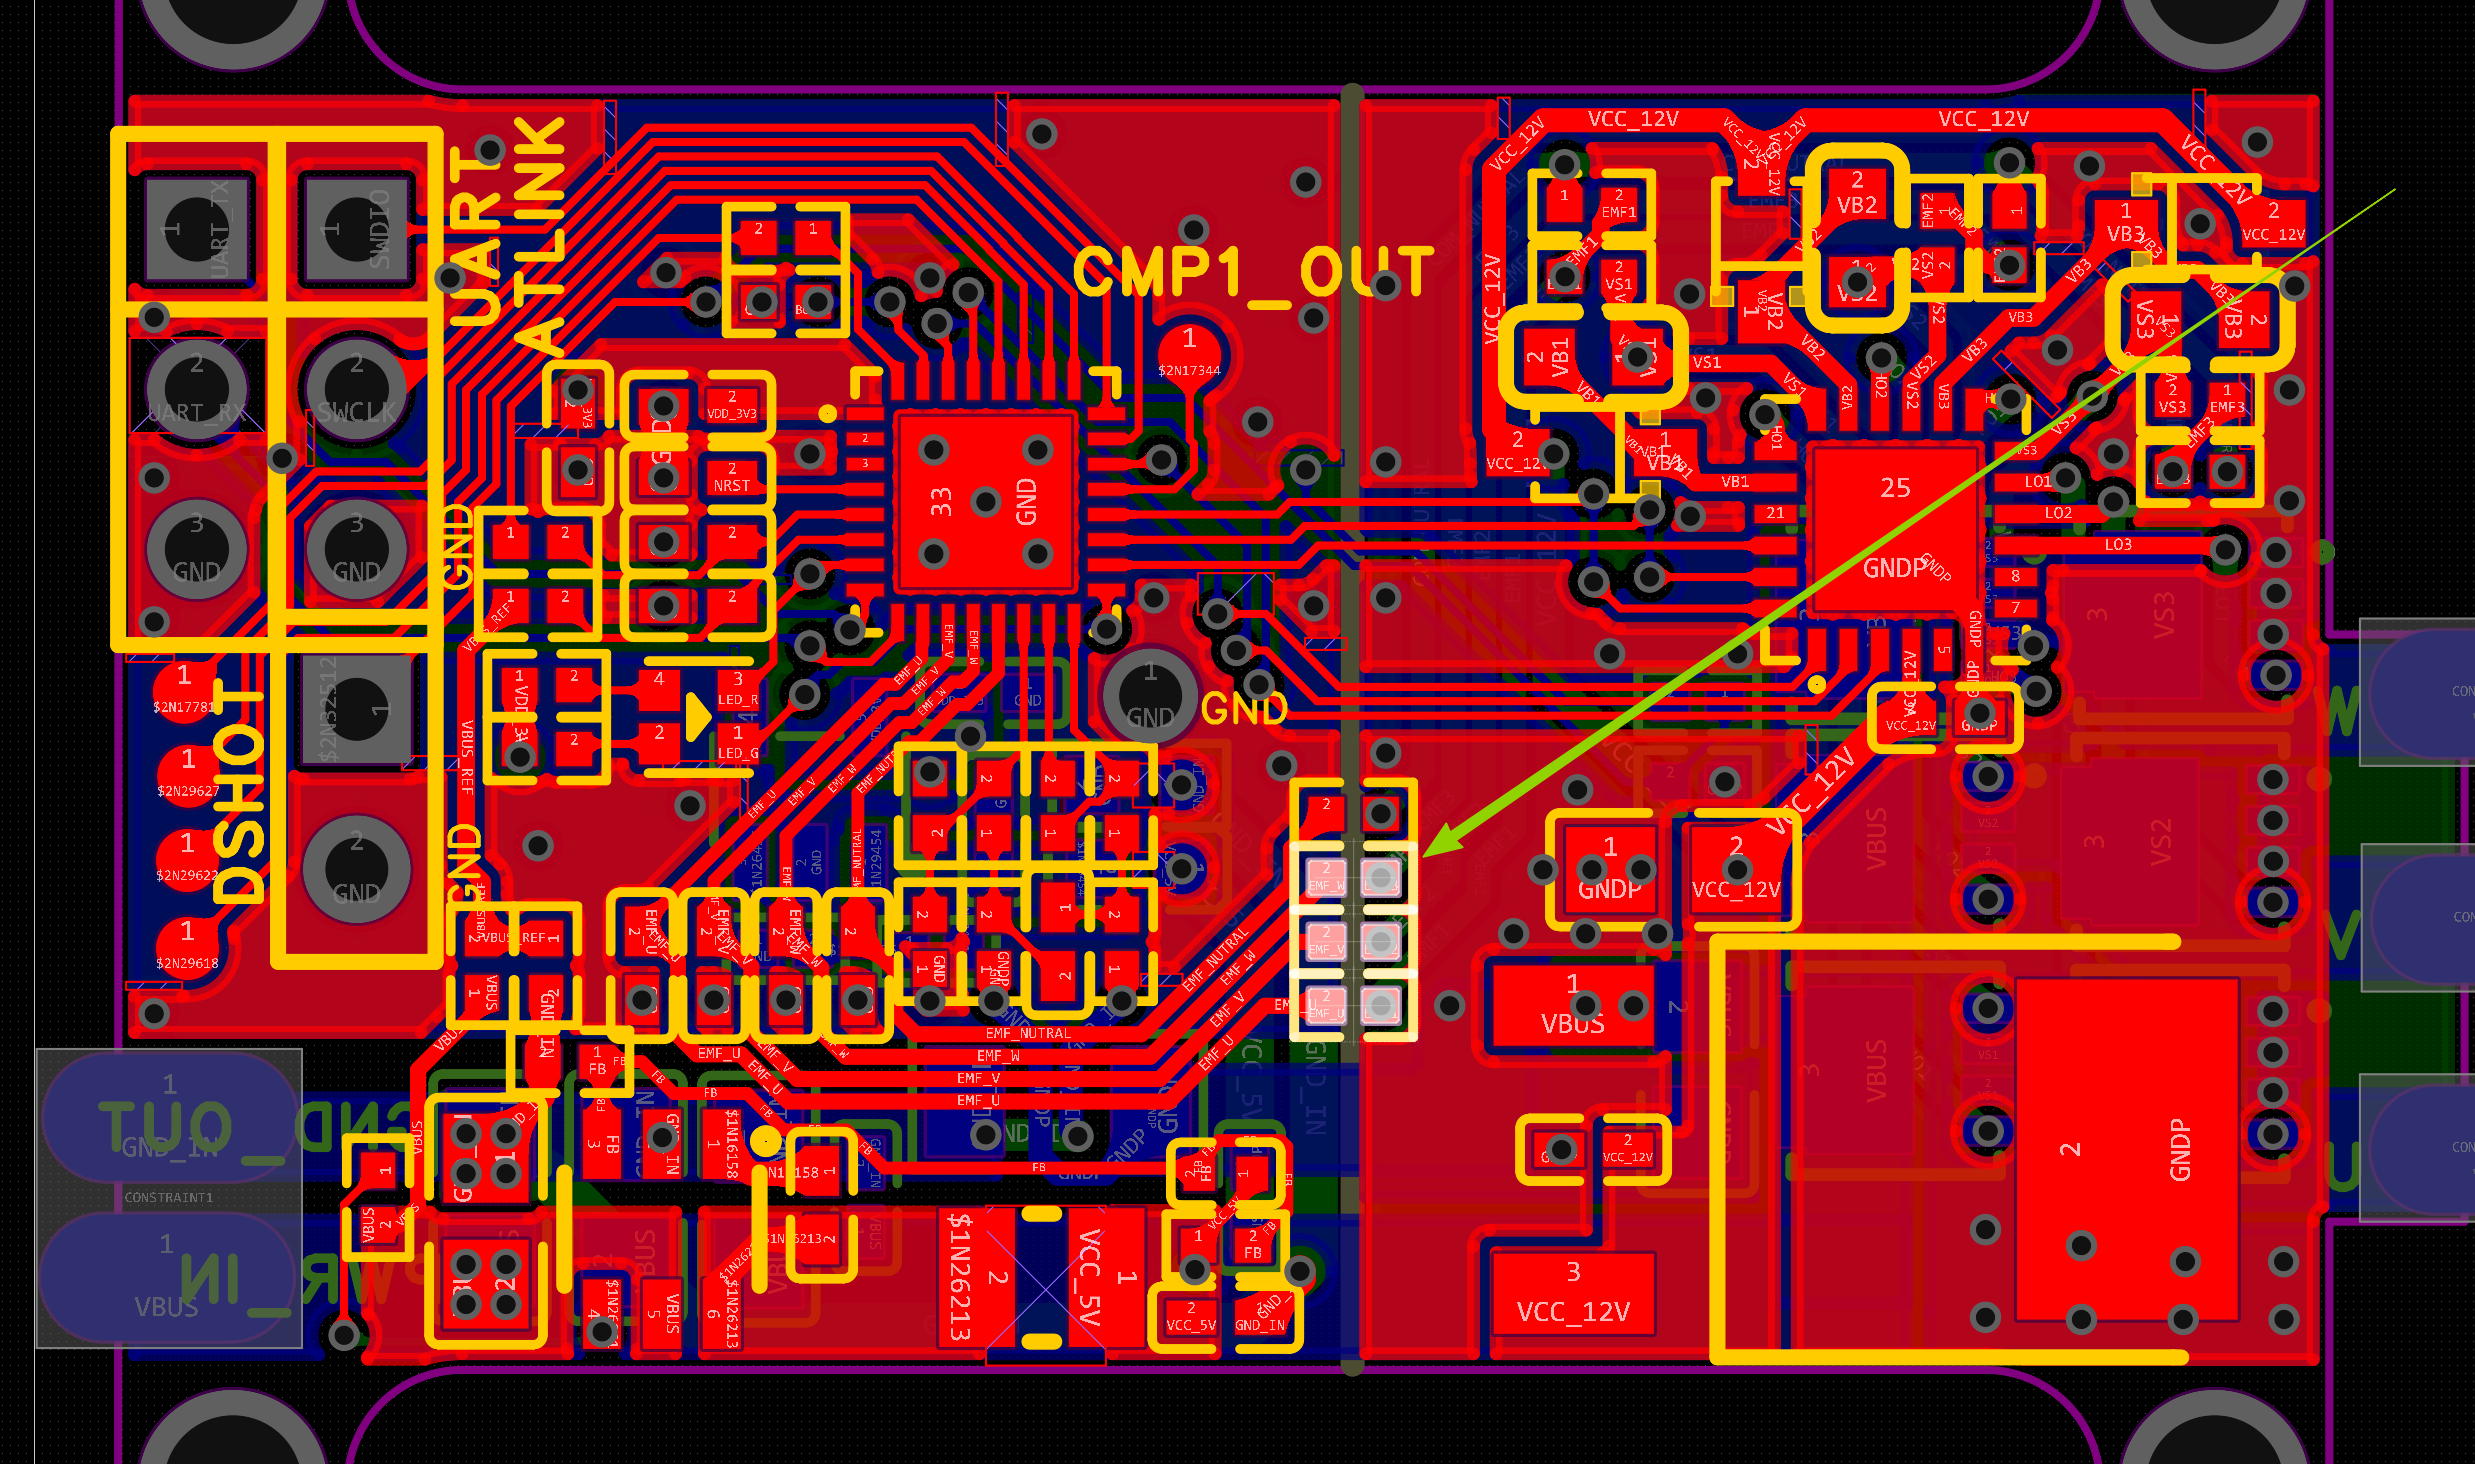
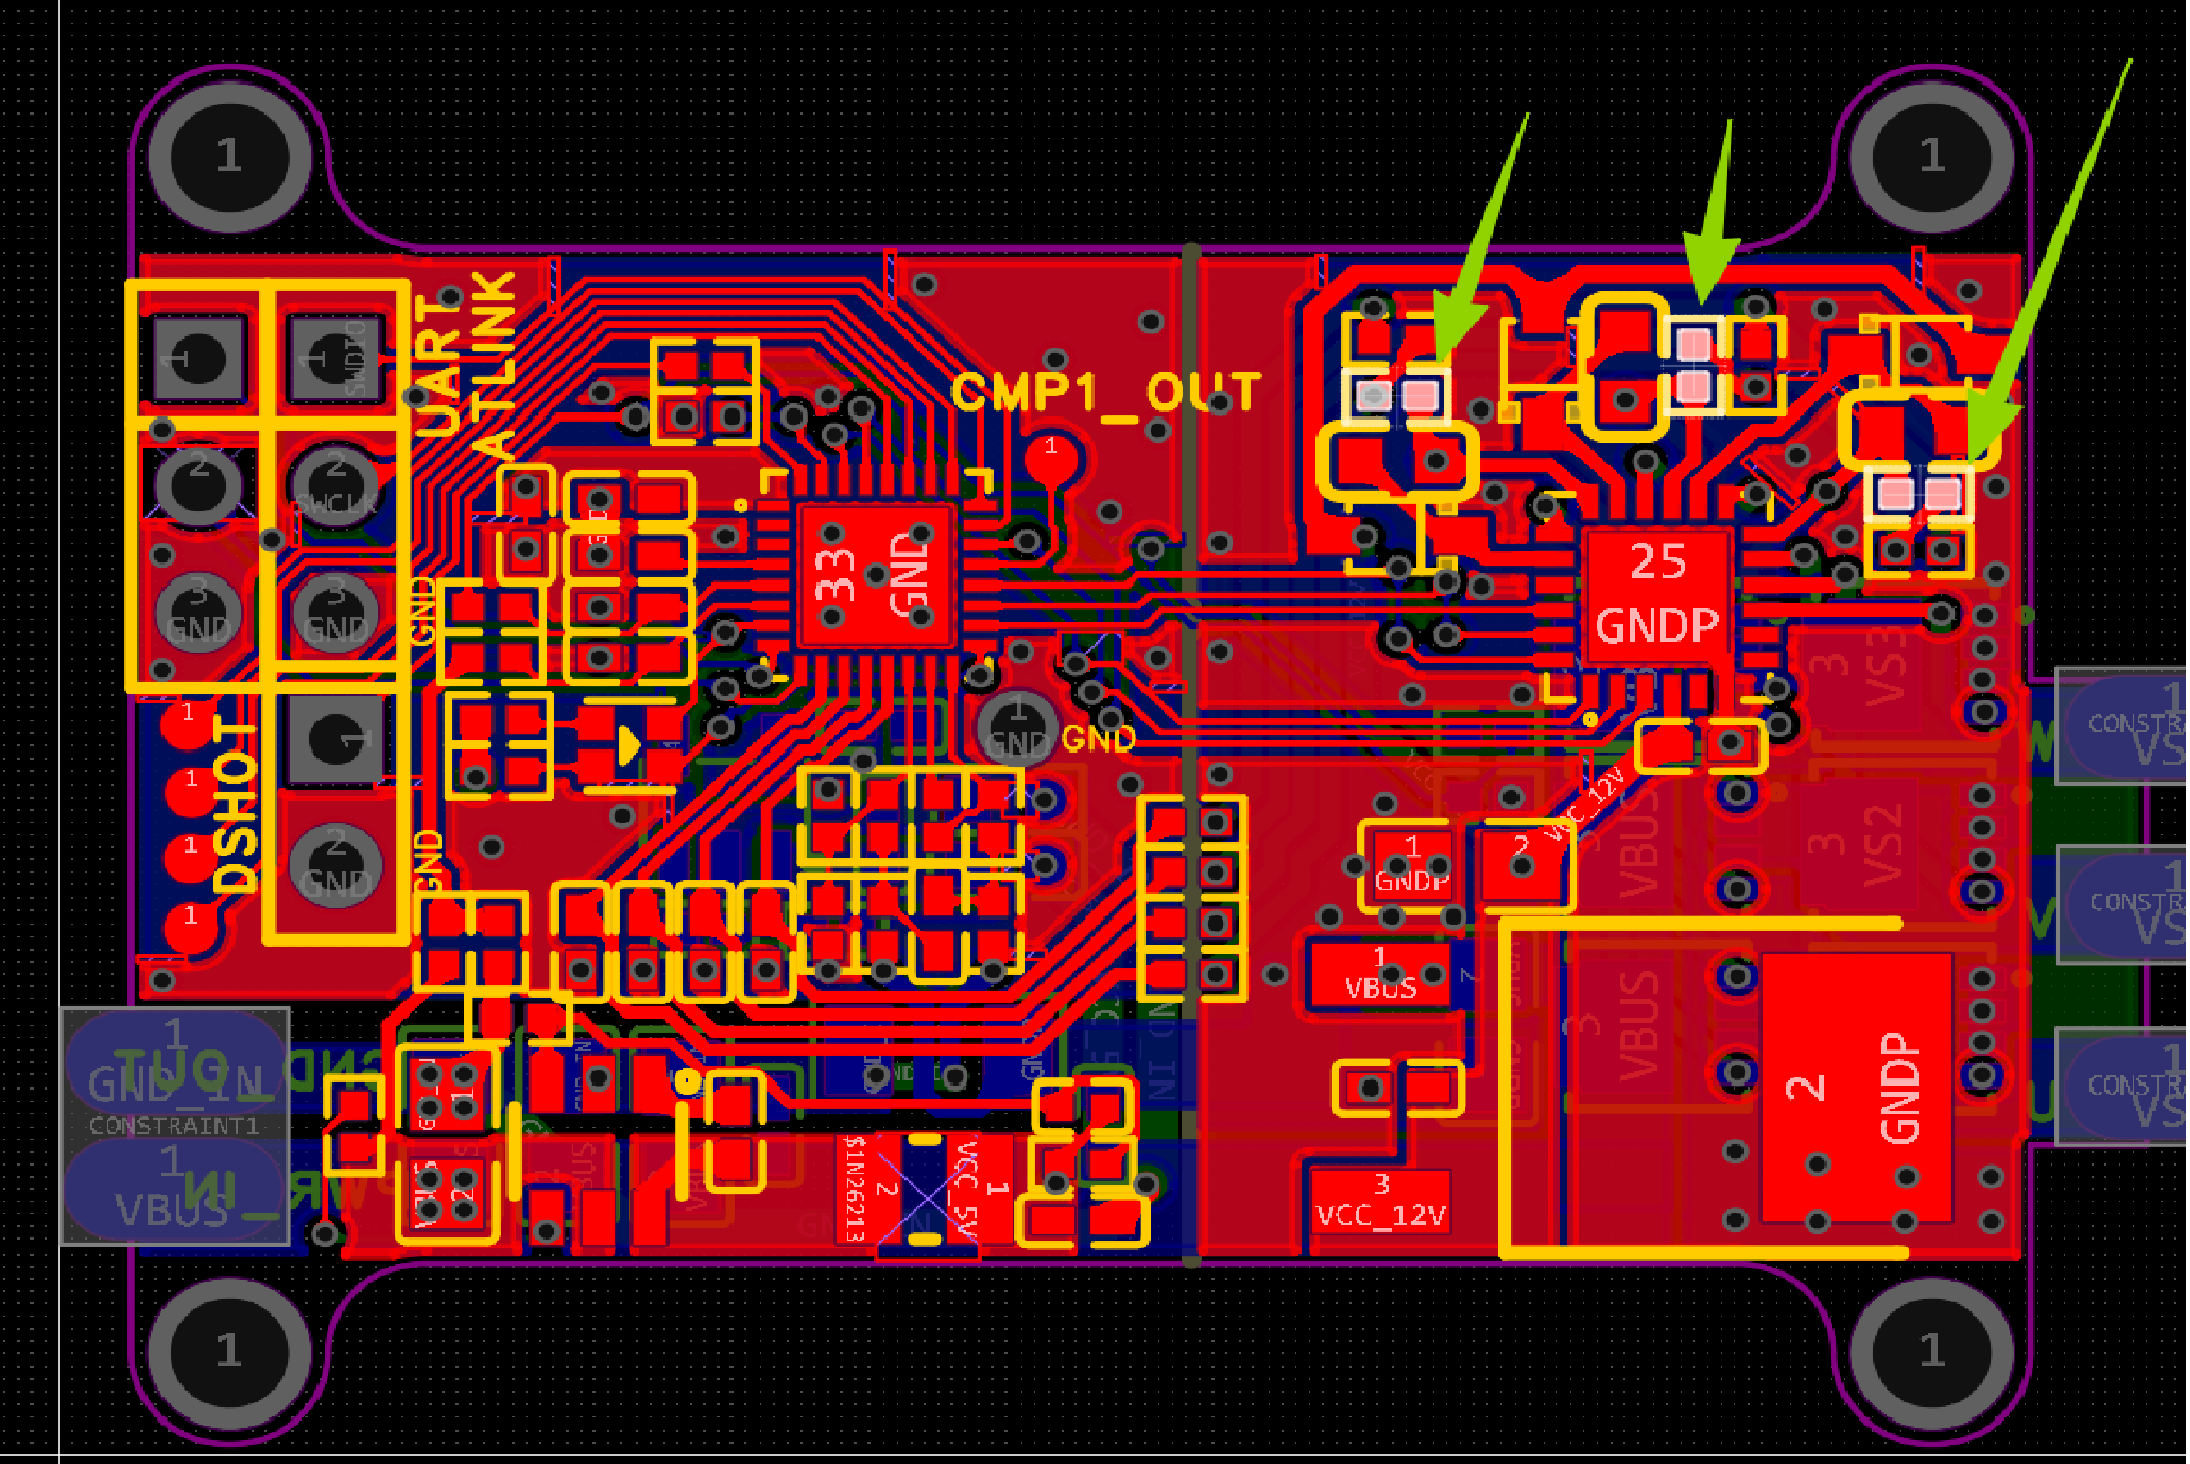
修正了文档分压电阻的的错误

diff --git a/docs/performance-tuning.md b/docs/performance-tuning.md
@@ -35,9 +35,9 @@ Tiny_ESC 的核心调参集中在 `firmware/at32m412_lv_motor_ev/at32m412/bldc_1
 
 | 电阻 | 原值 | 新值 |
 |------|------|------|
-| R213（BEMF 分压 U 相） | 5.1kΩ | 56kΩ |
-| R217（BEMF 分压 V 相） | 5.1kΩ | 56kΩ |
-| R220（BEMF 分压 W 相） | 5.1kΩ | 56kΩ |
+| R213（BEMF 分压 U 相） | 43kΩ | 56kΩ |
+| R217（BEMF 分压 V 相） | 43kΩ | 56kΩ |
+| R220（BEMF 分压 W 相） | 43kΩ | 56kΩ |
 
 <img src="{{ '/docs/pics/performance-tuning/R213R217R220分压.png' | relative_url }}?v={{ site.time | date: '%s' }}" alt="R213R217R220分压">
 
